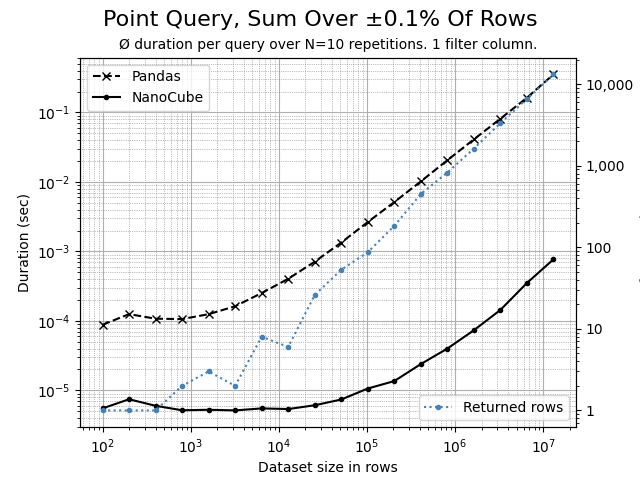
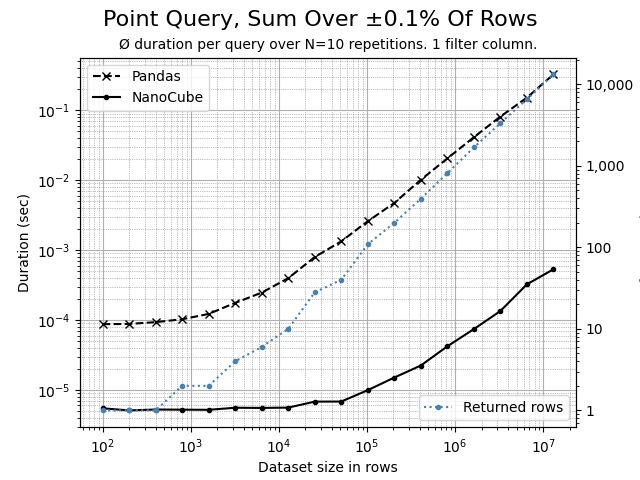
docu

Changed region(s): [[0.0625, 0.3438, 0.9062, 0.8125], [0.0625, 0.125, 0.9062, 0.3438], [0.1562, 0.7812, 0.625, 0.875]]

diff --git a/benchmarks/benchmark.py b/benchmarks/benchmark.py
@@ -16,9 +16,10 @@ df: pd.DataFrame  | None = None
 cube: NanoCube | None = None
 
 class Benchmark:
-    def __init__(self, max_rows=10_000_000, loops= 10):
+    def __init__(self, max_rows=10_000_000, loops= 10, sorted=True):
         self.max_rows = max_rows
         self.loops = loops
+        self.sorted = sorted
         self.data = {"pandas": { "s": [], "m": [], "l": [], "xl": [], "hk": [] },
                         "cube": {"s": [], "m": [], "l": [], "xl": [], "hk": [] },
                         "rows": [],
@@ -26,8 +27,6 @@ class Benchmark:
                         "count": {"s": [], "m": [], "l": [], "xl": [], "hk": [] }}
 
     def generate_data(self, rows):
-        #start = datetime.datetime.now()
-        #print(f"Generating DataFrame with {rows:,}rows ", end="")
         df = pd.DataFrame({'promo':    random.choices([True, False], k=rows),
                            'customer': random.choices(string.ascii_uppercase, weights=range(len(string.ascii_uppercase), 0, -1), k=rows),
                            'segment':  random.choices([f'S{i}' for i in range(10)], weights=range(10, 0, -1), k=rows),
@@ -38,7 +37,8 @@ class Benchmark:
                            'sales':    [1 for _ in range(rows)],
                            'cost':     [1 for _ in range(rows)]})
         members = dict([(col, df[col].unique()) for col in df.columns])
-        #print(f"in {(datetime.datetime.now() - start).total_seconds():.5f} sec.")
+        if self.sorted:
+            df = df.sort_values(by=['promo', 'segment', 'customer', 'category', 'date', 'product', 'order'])
         return df, members
 
     def run(self):
@@ -207,6 +207,6 @@ class Benchmark:
 
 if __name__ == "__main__":
     # run the benchmark
-    b = Benchmark(max_rows=14_000_000)
+    b = Benchmark(max_rows=14_000_000, sorted=False)
     b.run()
 

diff --git a/benchmarks/nano_vs_nano_cached.py b/benchmarks/nano_vs_nano_cached.py
@@ -8,6 +8,7 @@ import os
 # Create a DataFrame and NanoCube
 file_car_prices = Path(os.path.dirname(os.path.realpath(__file__))) / "files" / "car_prices.parquet"
 df = pd.read_parquet(file_car_prices)
+#df.sort_values(by=['body', 'make', 'model', 'trim'], inplace=True)
 nc = NanoCube(df, dimensions=['make', 'model', 'trim', 'body'], measures=['mmr'], caching=False)
 nc_cached = NanoCube(df, dimensions=['make', 'model', 'trim', 'body'], measures=['mmr'], caching=True)
 

diff --git a/benchmarks/nano_vs_sqlite.py b/benchmarks/nano_vs_sqlite.py
@@ -9,6 +9,7 @@ import os
 # Create a DataFrame and NanoCube
 file_car_prices = Path(os.path.dirname(os.path.realpath(__file__))) / "files" / "car_prices.parquet"
 df = pd.read_parquet(file_car_prices)
+#df.sort_values(by=['body', 'make', 'model', 'trim'], inplace=True)
 nc = NanoCube(df, dimensions=['make', 'model', 'trim', 'body'], measures=['mmr'], caching=False)
 
 # Connect to in-memory SQLite database

diff --git a/benchmarks/nano_vs_duckdb.py b/benchmarks/nano_vs_duckdb.py
@@ -9,6 +9,7 @@ import os
 # Create a DataFrame and NanoCube
 file_car_prices = Path(os.path.dirname(os.path.realpath(__file__))) / "files" / "car_prices.parquet"
 df = pd.read_parquet(file_car_prices)
+#df.sort_values(by=['body', 'make', 'model', 'trim'], inplace=True)
 nc = NanoCube(df, dimensions=['make', 'model', 'trim', 'body'], measures=['mmr'], caching=False)
 
 # Create a DuckDB table

diff --git a/benchmarks/nano_vs_polars.py b/benchmarks/nano_vs_polars.py
@@ -8,6 +8,7 @@ import os
 # Create a DataFrame and NanoCube
 file_car_prices = Path(os.path.dirname(os.path.realpath(__file__))) / "files" / "car_prices.parquet"
 df = pd.read_parquet(file_car_prices)
+#df.sort_values(by=['body', 'make', 'model', 'trim'], inplace=True)
 ns = NanoCube(df, dimensions=['make', 'model', 'trim', 'body'], measures=['mmr'], caching=False)
 
 # Create a Polars table

diff --git a/README.md b/README.md
@@ -96,6 +96,12 @@ NanoCube is 100x or more times faster than Pandas.
 
 ![Point query for single row](benchmarks/charts/s.png)
 
+If sorting is applied to the DataFrame - low cardinality dimension columns first, higher dimension cardinality 
+columns last - then the performance of NanoCube can (not must) improve by up to factor ±10x. Here, the same query
+as above, but the DataFrame is sorted accordingly.
+
+![Point query for single row](benchmarks/charts/s_sorted.png)
+
 #### Point query on high cardinality column
 A highly selective, filtering on a single high cardinality dimension, where each member
 represents ±0.01% of rows. NanoCube is 100x or more times faster than Pandas. 
